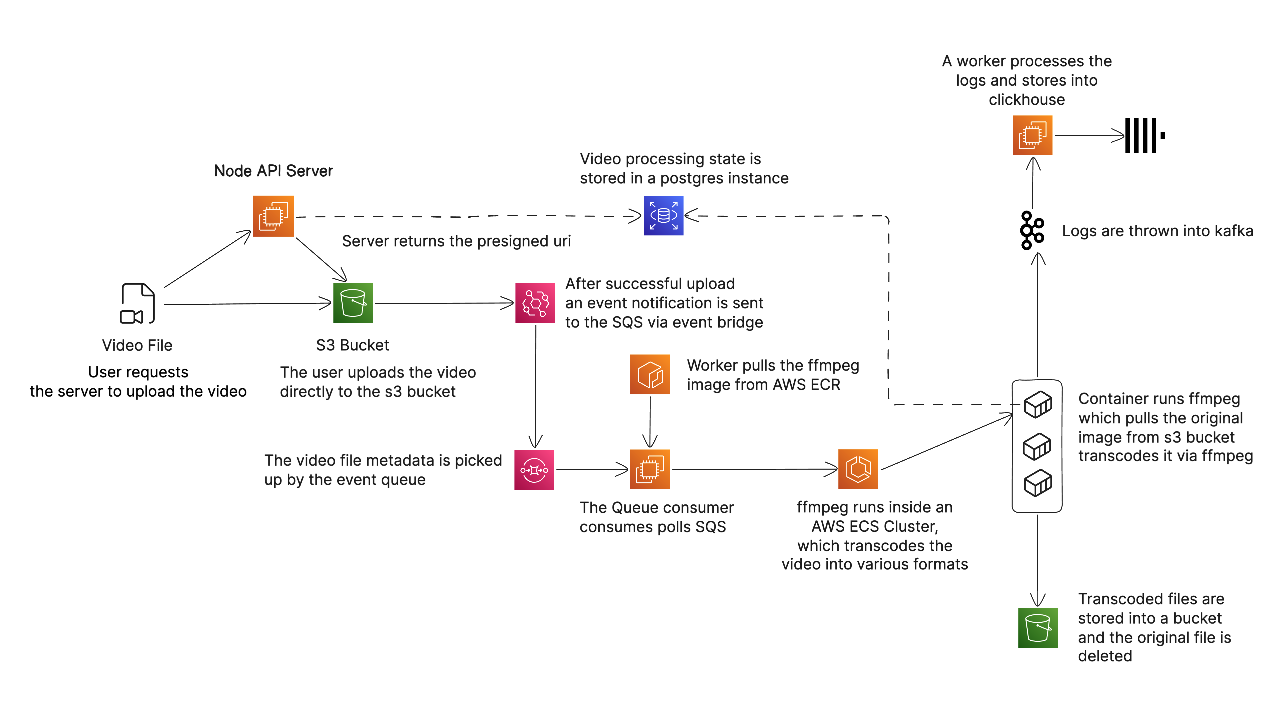
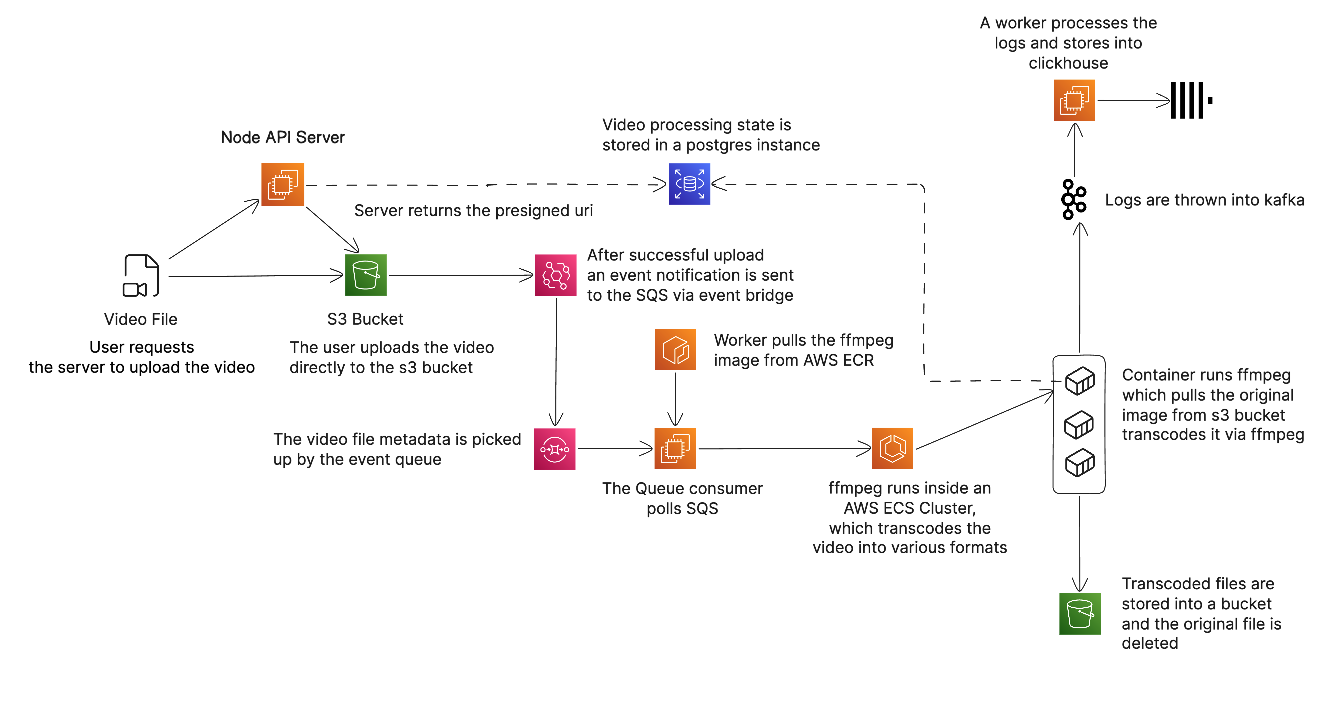
updated readme

diff --git a/README.md b/README.md
@@ -212,16 +212,16 @@ sequenceDiagram
     end
     Worker->>Worker: S3Event.parseCreatedObjects (handles both notification shapes)
     Worker->>PG: UPDATE videos SET status=uploaded WHERE source_key=... AND status=uploading
-    Worker->>PG: BEGIN; SELECT videos ... FOR UPDATE
+    Worker->>PG: BEGIN, SELECT videos ... FOR UPDATE
     Worker->>PG: INSERT transcoding_jobs (status=pending, attempt=latest+1)
-    Worker->>PG: UPDATE videos SET status=queued; COMMIT
+    Worker->>PG: UPDATE videos SET status=queued, COMMIT
     Worker->>ECS: RunTask(cluster, taskDefinition, env=[SOURCE_KEY, VIDEO_ID, JOB_ID])
     ECS-->>Worker: taskArn
     Worker->>PG: UPDATE transcoding_jobs SET ecs_task_arn
     Worker->>SQS: DeleteMessage
 
     ECS->>Transcoder: start Fargate container (reads SOURCE_KEY/VIDEO_ID/JOB_ID from env)
-    Transcoder->>PG: BEGIN; UPDATE job=running, video=processing; COMMIT
+    Transcoder->>PG: BEGIN, UPDATE job=running, video=processing, COMMIT
     Transcoder->>PG: INSERT video_renditions (360p,480p,720p,1080p = pending), ON CONFLICT reset
     Transcoder->>S3: GetObject -> stream to local tmp dir
     Transcoder->>Kafka: produce "Downloading s3://..."
@@ -235,7 +235,7 @@ sequenceDiagram
     end
 
     Transcoder->>S3: DeleteObject (source cleanup)
-    Transcoder->>PG: BEGIN; UPDATE job=succeeded, video=completed; COMMIT
+    Transcoder->>PG: BEGIN, UPDATE job=succeeded, video=completed, COMMIT
     Transcoder->>Kafka: produce "Transcoding completed"
 
     Kafka->>LogsConsumer: eachBatch (manual offset resolution)
